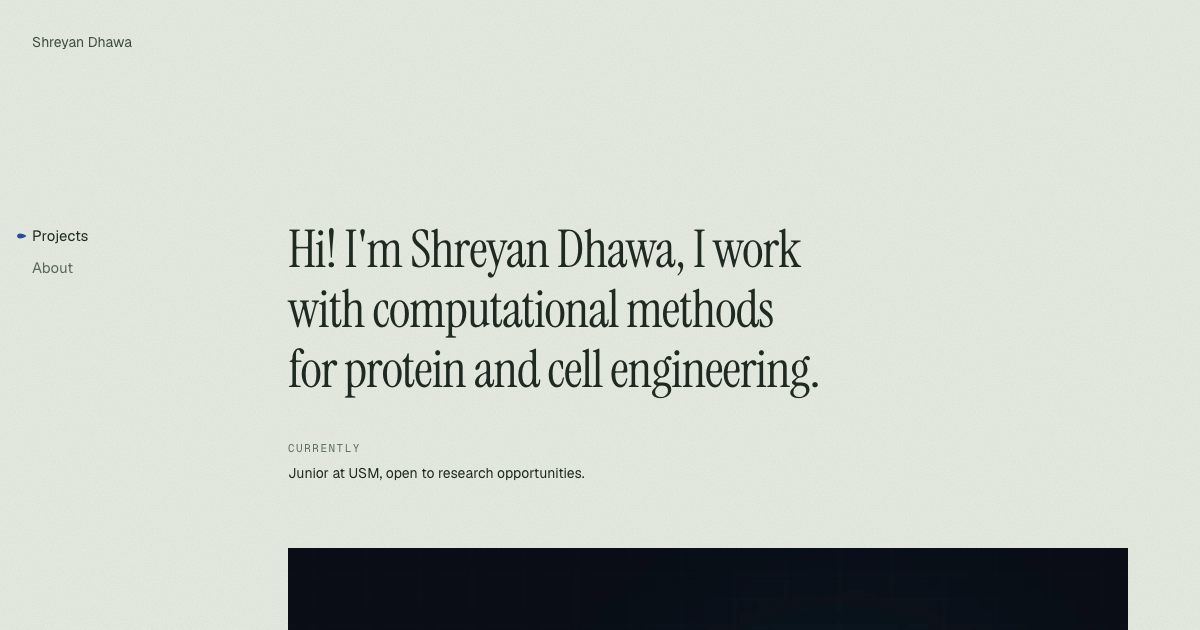
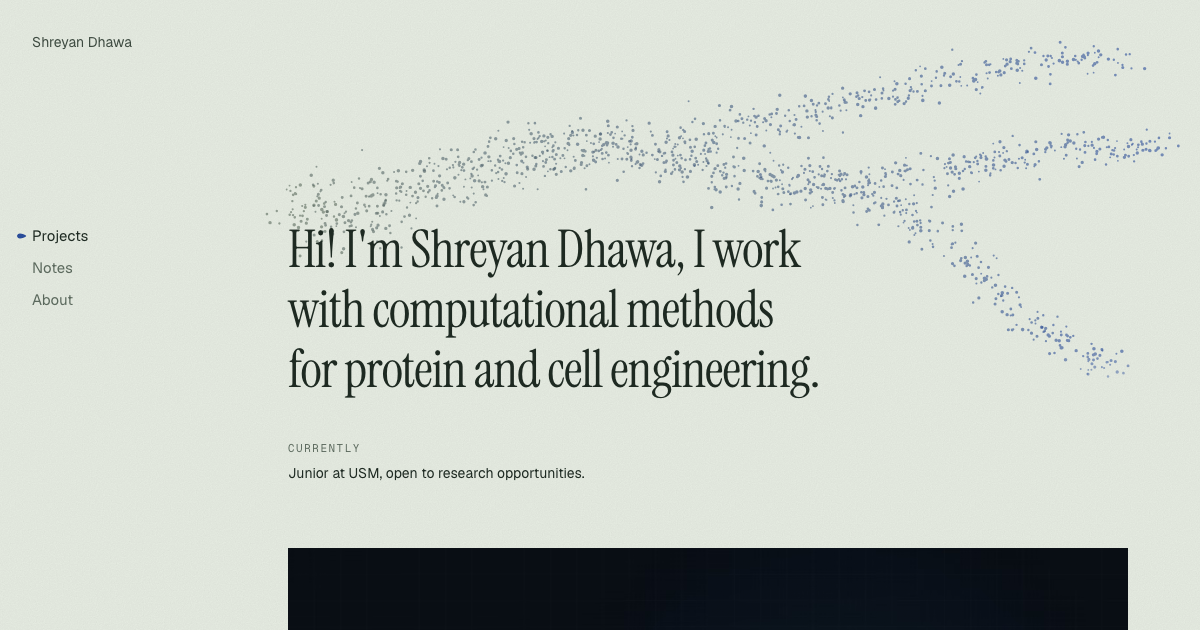
Grow a trajectory field behind Home's headline
1,500 points start as a scattered cloud and settle, root first, into a
three-lineage pseudotime trajectory over 7s, coloured --muted to --accent
along pseudotime. They drift up to 26px away from the mouse.

- components/field/render.ts: the renderer, plain canvas 2D with no React
  (makeField, drawField), so a later page can drive growth itself
- components/field/Field.tsx: mounts it behind the h1. DPR capped at 2. The
  loop sleeps off screen (IntersectionObserver), in a hidden tab, and once
  grown and still. Reduced motion draws one still frame of the grown tree
- Phones sit the field behind the headline at half strength; from md it
  keeps to the band above the headline, clear of the rail and "Currently"
- e2e: the canvas exists, holds still while hidden or scrolled away and
  resumes after, and stays still under reduced motion even under the mouse
- DESIGN.md: motion table row, rule 1, accent and contrast notes
- public/og.png regenerated: it now shows the field's still frame

diff --git a/components/field/render.ts b/components/field/render.ts
@@ -1,0 +1,129 @@
+// The field: points scattered over a canvas that settle, root first, into a branching pseudotime trajectory.
+// Plain canvas 2D with no React, so any page can drive it; Field.tsx runs it behind Home's headline.
+
+const TAU = Math.PI * 2;
+const STEPS = 16; // colour steps from --muted to --accent; one fill per step keeps a frame to 16 draw calls
+const ALPHA = 0.6;
+const REACH = 110; // CSS px around the cursor that points drift away from
+const PUSH = 26; // CSS px a point right under the cursor moves
+
+// Root → first branch, then one lineage up and a stem that splits in two: three tips. On Home at md and up the
+// tree keeps to the band above the headline, and the last lineage drops into the space right of its second line.
+// Each is a cubic Bézier in the canvas's 0–1 box, its pseudotime span, and its share of the points.
+const SEGMENTS: [number[], number, number, number][] = [
+  [[0.05, 0.44, 0.15, 0.5, 0.26, 0.28, 0.36, 0.3], 0, 0.36, 0.3],
+  [[0.36, 0.3, 0.52, 0.32, 0.7, 0.08, 0.93, 0.07], 0.36, 1, 0.24],
+  [[0.36, 0.3, 0.44, 0.29, 0.52, 0.4, 0.6, 0.39], 0.36, 0.6, 0.12],
+  [[0.6, 0.39, 0.72, 0.38, 0.84, 0.27, 0.97, 0.3], 0.6, 1, 0.17],
+  [[0.6, 0.39, 0.74, 0.4, 0.8, 0.8, 0.92, 0.84], 0.6, 1, 0.17],
+];
+
+// mulberry32: a seeded generator, so the field (and the reduced-motion still) is the same on every visit.
+function random(seed: number) {
+  return () => {
+    seed = (seed + 0x6d2b79f5) | 0;
+    let t = Math.imul(seed ^ (seed >>> 15), 1 | seed);
+    t = (t + Math.imul(t ^ (t >>> 7), 61 | t)) ^ t;
+    return ((t ^ (t >>> 14)) >>> 0) / 4294967296;
+  };
+}
+
+// --muted and --accent are #rrggbb in app/globals.css.
+const rgb = (hex: string) => [1, 3, 5].map((i) => parseInt(hex.slice(i, i + 2), 16));
+
+/** n points along SEGMENTS, coloured from `from` at pseudotime 0 to `to` at 1. */
+export function makeField(n: number, from: string, to: string, seed = 7) {
+  const rand = random(seed);
+  const gauss = () => Math.sqrt(-2 * Math.log(1 - rand())) * Math.cos(TAU * rand());
+  const arr = () => new Float32Array(n);
+  const f = {
+    n,
+    hx: arr(), // home on the trajectory, 0–1 of the canvas
+    hy: arr(),
+    nx: arr(), // spread around it, in units of the canvas's shorter side
+    ny: arr(),
+    sx: arr(), // start in the scattered field, 0–1 of the canvas
+    sy: arr(),
+    t: arr(), // pseudotime
+    r: arr(), // radius, CSS px
+    ox: arr(), // drift from the cursor, CSS px
+    oy: arr(),
+    x: arr(), // this frame's position and colour step
+    y: arr(),
+    step: new Uint8Array(n),
+    palette: [] as string[],
+  };
+  for (let i = 0; i < n; i++) {
+    let pick = rand();
+    const [p, t0, t1] = SEGMENTS.find((s) => (pick -= s[3]) < 0) ?? SEGMENTS[0];
+    const u = rand();
+    const v = 1 - u;
+    const [a, b, c, d] = [v * v * v, 3 * v * v * u, 3 * v * u * u, u * u * u];
+    f.hx[i] = a * p[0] + b * p[2] + c * p[4] + d * p[6];
+    f.hy[i] = a * p[1] + b * p[3] + c * p[5] + d * p[7];
+    f.t[i] = t0 + u * (t1 - t0);
+    // Progenitors spread wide; lineages tighten toward their tips.
+    const spread = 0.045 * (1 - 0.6 * f.t[i]);
+    f.nx[i] = gauss() * spread;
+    f.ny[i] = gauss() * spread;
+    // A soft cloud rather than the whole box, so the start has no edges.
+    f.sx[i] = 0.5 + gauss() * 0.2;
+    f.sy[i] = 0.4 + gauss() * 0.2;
+    f.r[i] = 0.9 + rand() * 0.9;
+  }
+  const [c0, c1] = [rgb(from), rgb(to)];
+  for (let k = 0; k < STEPS; k++) {
+    const mix = c0.map((c, j) => Math.round(c + ((c1[j] - c) * k) / (STEPS - 1)));
+    f.palette.push(`rgb(${mix.join(" ")} / ${ALPHA})`);
+  }
+  return f;
+}
+
+export type Field = ReturnType<typeof makeField>;
+
+const smooth = (x: number) => (x <= 0 ? 0 : x >= 1 ? 1 : x * x * (3 - 2 * x));
+
+/**
+ * Draws one frame on a context already scaled to CSS px. `grow` runs 0 → 1: each point leaves the scattered field
+ * and takes its pseudotime colour as growth passes its pseudotime. `pointer` is in canvas CSS px, or null.
+ * Returns true while points are still drifting toward or back from the pointer.
+ */
+export function drawField(ctx: CanvasRenderingContext2D, f: Field, w: number, h: number, grow: number, pointer: { x: number; y: number } | null) {
+  const side = Math.min(w, h);
+  let moving = false;
+  for (let i = 0; i < f.n; i++) {
+    const s = smooth((grow * 1.4 - f.t[i]) / 0.4);
+    const x = (f.sx[i] + (f.hx[i] - f.sx[i]) * s) * w + f.nx[i] * side * s;
+    const y = (f.sy[i] + (f.hy[i] - f.sy[i]) * s) * h + f.ny[i] * side * s;
+    let wantX = 0;
+    let wantY = 0;
+    if (pointer) {
+      const dx = x - pointer.x;
+      const dy = y - pointer.y;
+      const d = Math.hypot(dx, dy);
+      if (d > 0 && d < REACH) {
+        const k = (PUSH * (1 - d / REACH) ** 2) / d;
+        wantX = dx * k;
+        wantY = dy * k;
+      }
+    }
+    f.ox[i] += (wantX - f.ox[i]) * 0.08;
+    f.oy[i] += (wantY - f.oy[i]) * 0.08;
+    if (Math.abs(wantX - f.ox[i]) + Math.abs(wantY - f.oy[i]) > 0.05) moving = true;
+    f.x[i] = x + f.ox[i];
+    f.y[i] = y + f.oy[i];
+    f.step[i] = Math.round(f.t[i] * s * (STEPS - 1));
+  }
+  ctx.clearRect(0, 0, w, h);
+  for (let k = 0; k < STEPS; k++) {
+    ctx.fillStyle = f.palette[k];
+    ctx.beginPath();
+    for (let i = 0; i < f.n; i++) {
+      if (f.step[i] !== k) continue;
+      ctx.moveTo(f.x[i] + f.r[i], f.y[i]);
+      ctx.arc(f.x[i], f.y[i], f.r[i], 0, TAU);
+    }
+    ctx.fill();
+  }
+  return moving;
+}

diff --git a/components/field/Field.tsx b/components/field/Field.tsx
@@ -1,0 +1,98 @@
+"use client";
+
+import { useEffect, useRef } from "react";
+import { drawField, makeField } from "./render";
+
+const POINTS = 1500;
+const GROW_MS = 7000;
+
+/**
+ * The field behind Home's headline: it grows into a branching trajectory over 7s, and points drift from the mouse.
+ * Under reduced motion it draws one finished frame. The loop sleeps off screen, in a hidden tab, and once grown and still.
+ */
+export function Field({ className }: { className: string }) {
+  const ref = useRef<HTMLCanvasElement>(null);
+
+  useEffect(() => {
+    const canvas = ref.current!;
+    const ctx = canvas.getContext("2d")!;
+    const css = getComputedStyle(canvas);
+    const f = makeField(POINTS, css.getPropertyValue("--muted").trim(), css.getPropertyValue("--accent").trim());
+    const still = matchMedia("(prefers-reduced-motion: reduce)").matches;
+    let w = 0;
+    let h = 0;
+    let grow = still ? 1 : 0;
+    let last = 0;
+    let raf = 0;
+    let onScreen = false;
+    let moving = false;
+    let mouse: { x: number; y: number } | null = null;
+
+    const draw = () => {
+      const box = canvas.getBoundingClientRect();
+      moving = drawField(ctx, f, w, h, grow, mouse && { x: mouse.x - box.left, y: mouse.y - box.top });
+    };
+    const tick = (now: number) => {
+      grow = Math.min(1, grow + (last && now - last) / GROW_MS);
+      last = now;
+      draw();
+      raf = 0;
+      wake();
+    };
+    // Growth only advances while the loop runs, so a hidden tab or a scrolled-away field picks up where it left off.
+    const wake = () => {
+      if (onScreen && !document.hidden && (grow < 1 || moving)) raf ||= requestAnimationFrame(tick);
+      else {
+        cancelAnimationFrame(raf);
+        raf = last = 0;
+      }
+    };
+
+    const resize = new ResizeObserver(([entry]) => {
+      const dpr = Math.min(devicePixelRatio, 2);
+      ({ width: w, height: h } = entry.contentRect);
+      canvas.width = Math.round(w * dpr);
+      canvas.height = Math.round(h * dpr);
+      ctx.setTransform(dpr, 0, 0, dpr, 0, 0);
+      draw();
+    });
+    const seen = new IntersectionObserver(([entry]) => {
+      onScreen = entry.isIntersecting;
+      wake();
+    });
+    const move = (e: PointerEvent) => {
+      if (e.pointerType !== "mouse") return;
+      mouse = { x: e.clientX, y: e.clientY };
+      moving = true;
+      wake();
+    };
+    const leave = () => {
+      mouse = null;
+      moving = true;
+      wake();
+    };
+
+    resize.observe(canvas);
+    if (!still) {
+      seen.observe(canvas);
+      document.addEventListener("visibilitychange", wake);
+      addEventListener("pointermove", move, { passive: true });
+      document.documentElement.addEventListener("pointerleave", leave);
+    }
+    return () => {
+      resize.disconnect();
+      seen.disconnect();
+      cancelAnimationFrame(raf);
+      document.removeEventListener("visibilitychange", wake);
+      removeEventListener("pointermove", move);
+      document.documentElement.removeEventListener("pointerleave", leave);
+    };
+  }, []);
+
+  // A replaced element won't stretch between insets, so the wrapper takes the position and the canvas fills it.
+  return (
+    <div aria-hidden="true" className={`pointer-events-none ${className}`}>
+      <canvas ref={ref} className="block size-full" />
+    </div>
+  );
+}

diff --git a/e2e/motion.spec.ts b/e2e/motion.spec.ts
@@ -16,8 +16,55 @@ const moving = (page: Page) =>
       .filter((k) => /^(transform|translate|rotate|scale|opacity|filter)$/.test(k)),
   );
 
+// The Home field's pixels, or "" while it is blank.
+const field = (page: Page) =>
+  page.locator("canvas").evaluate((c: HTMLCanvasElement) => {
+    const blank = document.createElement("canvas");
+    [blank.width, blank.height] = [c.width, c.height];
+    return c.toDataURL() === blank.toDataURL() ? "" : c.toDataURL();
+  });
+// Headless tabs are never hidden, so fake what the field reads.
+const setHidden = (page: Page, hidden: boolean) =>
+  page.evaluate((hidden) => {
+    if (hidden) Object.defineProperty(document, "hidden", { configurable: true, get: () => true });
+    else delete (document as { hidden?: boolean }).hidden;
+    document.dispatchEvent(new Event("visibilitychange"));
+  }, hidden);
+const holdsStill = async (page: Page) => {
+  const before = await field(page);
+  await page.waitForTimeout(300);
+  return before === (await field(page));
+};
+
+test("the Home field grows, and pauses in a hidden tab and off screen", async ({ page }) => {
+  await page.goto("/");
+  await expect(page.locator('[aria-hidden="true"] > canvas')).toHaveCount(1);
+  await expect.poll(() => holdsStill(page)).toBe(false);
+
+  await setHidden(page, true);
+  expect(await holdsStill(page)).toBe(true);
+  await setHidden(page, false);
+  await expect.poll(() => holdsStill(page)).toBe(false);
+
+  await page.evaluate(() => scrollTo({ top: document.documentElement.scrollHeight, behavior: "instant" }));
+  await expect.poll(() => holdsStill(page)).toBe(true);
+  // Still growing, so it was paused rather than finished.
+  await page.evaluate(() => scrollTo({ top: 0, behavior: "instant" }));
+  await expect.poll(() => holdsStill(page)).toBe(false);
+});
+
 test.describe("reduced motion", () => {
   test.use({ reducedMotion: "reduce" });
+
+  test("the Home field is one still frame, even under the mouse", async ({ page }) => {
+    await page.goto("/");
+    await expect.poll(() => field(page)).not.toBe("");
+    const still = await field(page);
+    await page.mouse.move(400, 150);
+    await page.mouse.move(700, 200, { steps: 10 });
+    await page.waitForTimeout(300);
+    expect(await field(page)).toBe(still);
+  });
 
   test("page enter is a 150ms fade and the system cursor stays", async ({ page }) => {
     await page.goto("/");
@@ -47,7 +94,8 @@ test.describe("reduced motion", () => {
 test("page enter blurs blocks in, 40ms apart", async ({ page }) => {
   await page.goto("/");
   expect(await page.locator("h1").evaluate(animation)).toBe("enter 0.45s");
-  expect(await page.locator("h1 + section").evaluate((el) => getComputedStyle(el).animationDelay)).toBe("0.04s");
+  const currently = page.locator("section", { has: page.getByRole("heading", { name: "Currently" }) });
+  expect(await currently.evaluate((el) => getComputedStyle(el).animationDelay)).toBe("0.04s");
 });
 
 // Headless Chromium has no H.264, so count play() calls instead of checking playback.

diff --git a/app/(site)/page.tsx b/app/(site)/page.tsx
@@ -1,6 +1,7 @@
 import type { Metadata } from "next";
 import Link from "next/link";
 import { ViewTransition } from "react";
+import { Field } from "@/components/field/Field";
 import { MediaFrame } from "@/components/MediaFrame";
 import { projects, type Project } from "@/content/projects";
 import { site } from "@/content/site";
@@ -46,9 +47,14 @@ export default function Home() {
   return (
     <>
       <script type="application/ld+json" dangerouslySetInnerHTML={{ __html: JSON.stringify(person).replace(/</g, "\\u003c") }} />
-      <h1 className="enter font-serif text-[36px] leading-[42px] tracking-[-0.5px] text-ink md:text-[52px] md:leading-[60px] md:tracking-[-1px]">
-        {headline}
-      </h1>
+      {/* The field fills the headline's box plus margins, short of the rail and the muted "Currently" label.
+          Phones have no room above the headline, so it sits behind the text at half strength. */}
+      <div className="relative isolate">
+        <Field className="absolute -inset-x-4 -top-10 -bottom-6 -z-10 opacity-50 mask-b-from-80% md:-left-12 md:-right-[72px] md:-top-48 md:-bottom-8 md:opacity-100" />
+        <h1 className="enter font-serif text-[36px] leading-[42px] tracking-[-0.5px] text-ink md:text-[52px] md:leading-[60px] md:tracking-[-1px]">
+          {headline}
+        </h1>
+      </div>
       <section className="enter mt-10 max-w-[640px] [--i:1]">
         <h2 className="label">Currently</h2>
         <p className="mt-1.5 text-[14px] leading-[22px] text-ink">{currently}</p>

diff --git a/DESIGN.md b/DESIGN.md
@@ -17,8 +17,9 @@ Defined on `:root` in `app/globals.css` and exposed to Tailwind by `@theme inlin
 | `--accent`  | `#2a4d9b` | Rail marker, text selection                | 6.5 / 5.8                |
 
 - `--muted` fails 4.5:1 on `--surface`: text on a surface uses `--ink-2` or `--ink` (see `components/CopyButton.tsx`).
-- The accent is rare on purpose. It marks where you are and what you selected, nothing else.
+- The accent is rare on purpose. It marks where you are, what you selected and the lineage tips of the Home field, nothing else.
 - Film grain (`.grain`, in the site layout) sits over everything at 20% multiply. Keep new grounds light enough for it.
+- The Home field's points are 60% alpha (30% on phones, where they sit behind the headline). The darkest blend, `--accent` at 60% on `--bg`, still gives ink 4.4:1 against the 3:1 that large text needs. `--muted` text has no margin to spare, so the field stops short of the rail and of "Currently".
 
 ## Type
 
@@ -67,7 +68,7 @@ In Tailwind: `duration-(--dur-base) ease-(--ease-spring)`. In CSS: `var(--dur-ba
 
 ### Rules
 
-1. **One wow moment per page.** A page gets one piece of motion people notice; everything else stays small and quick. Today Home and the project pages share theirs, the card media morphing into the project hero (or, arriving from the Next link, the project name morphing into the title); a project figure opening into its lightbox is the same morph, played only on a click. About and 404 have none beyond the page enter.
+1. **One wow moment per page.** A page gets one piece of motion people notice; everything else stays small and quick. Home's is the field behind the headline growing into a trajectory (`components/field/`). The project pages' is the card media morphing into the project hero, started from a Home card (or, arriving from the Next link, the project name morphing into the title); a project figure opening into its lightbox is the same morph, played only on a click. About and 404 have none beyond the page enter.
 2. **Everything rests under reduced motion.** With `prefers-reduced-motion: reduce` nothing moves or autoplays: at most a short opacity fade. View transitions, zoom, nudges, the underline draw and the rail marker go instant, clips stay on their poster, and the system cursor replaces the custom one. A new animation ships with its reduced-motion branch and a test in `e2e/motion.spec.ts`.
 3. **No scroll-jacking.** Never take over wheel or touch scrolling, change its speed, or pin or scrub content against scroll position. Scroll listeners may read the position (the rail's active section does) but never set it. Smooth scrolling is for in-page anchors and is off under reduced motion.
 4. Hover effects live under `@media (hover: hover)`, so touch screens don't get stuck hover states.
@@ -90,6 +91,7 @@ In Tailwind: `duration-(--dur-base) ease-(--ease-spring)`. In CSS: `var(--dur-ba
 | Button press        | `<button>`: `motion-safe:active:scale-[.98]` | 98% while pressed                     | None           |
 | Cursor              | `components/Cursor.tsx`                  | Follows the pointer exactly; label opens in 120ms | System cursor |
 | Card clips          | `components/Clip.tsx`                    | Play while on screen                      | Poster only    |
+| Home field          | `components/field/`, behind the `h1`     | 1,500 points grow from a scattered cloud into a three-lineage trajectory over 7s, root first, `--muted` → `--accent` along pseudotime; they drift up to 26px from the mouse. Canvas 2D, DPR capped at 2; sleeps off screen, in a hidden tab and once still | One still frame of the grown tree |
 
 ## Links
 
